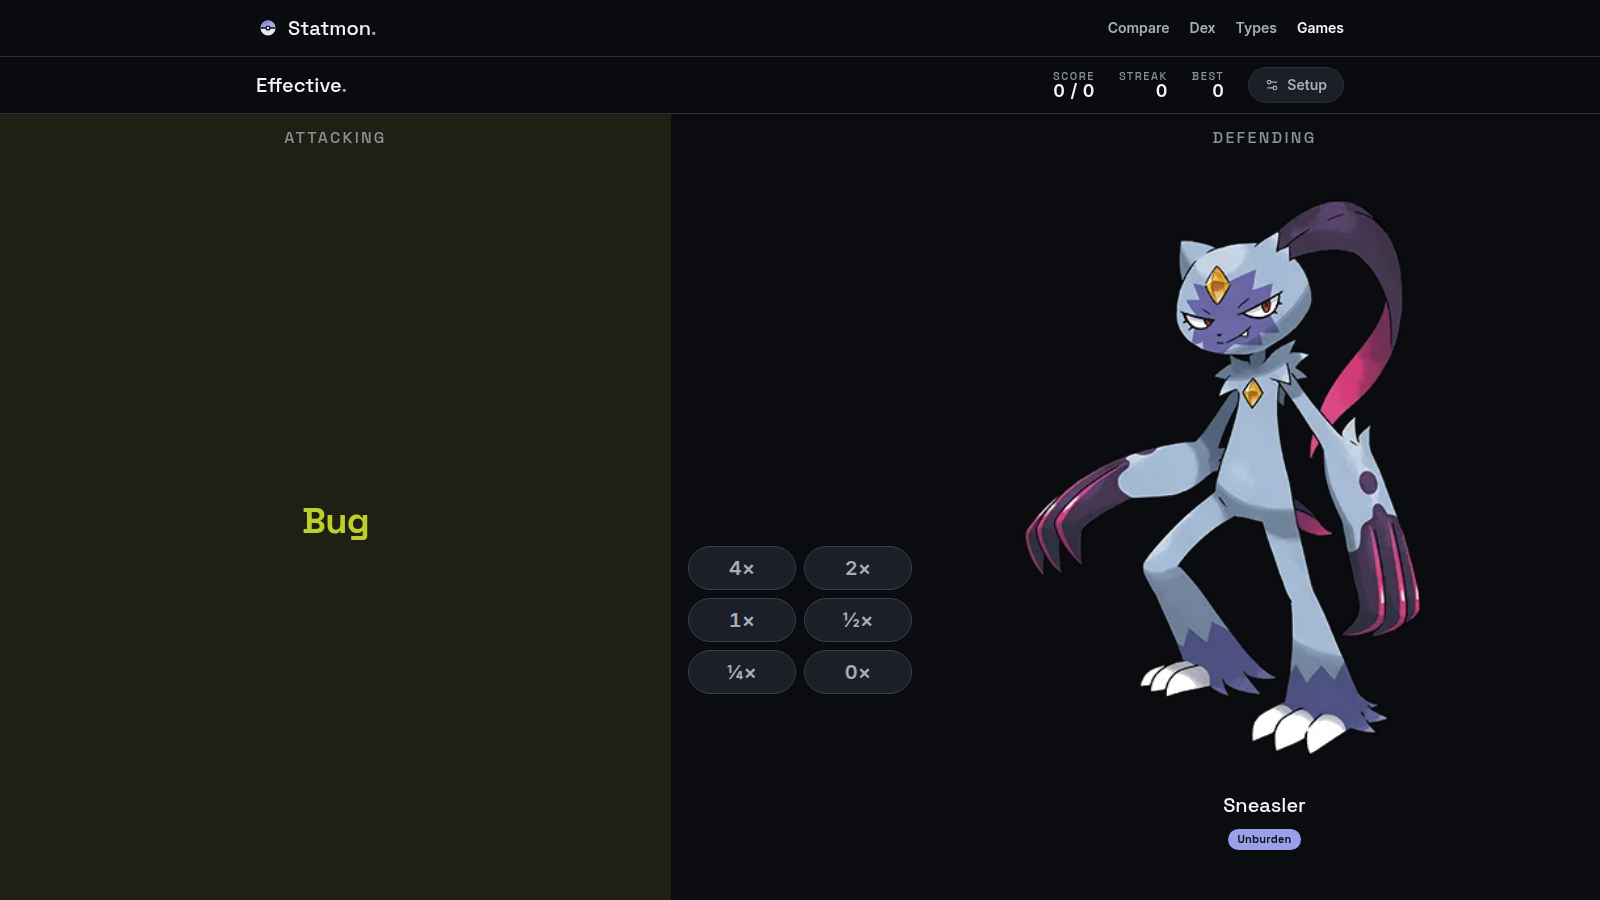
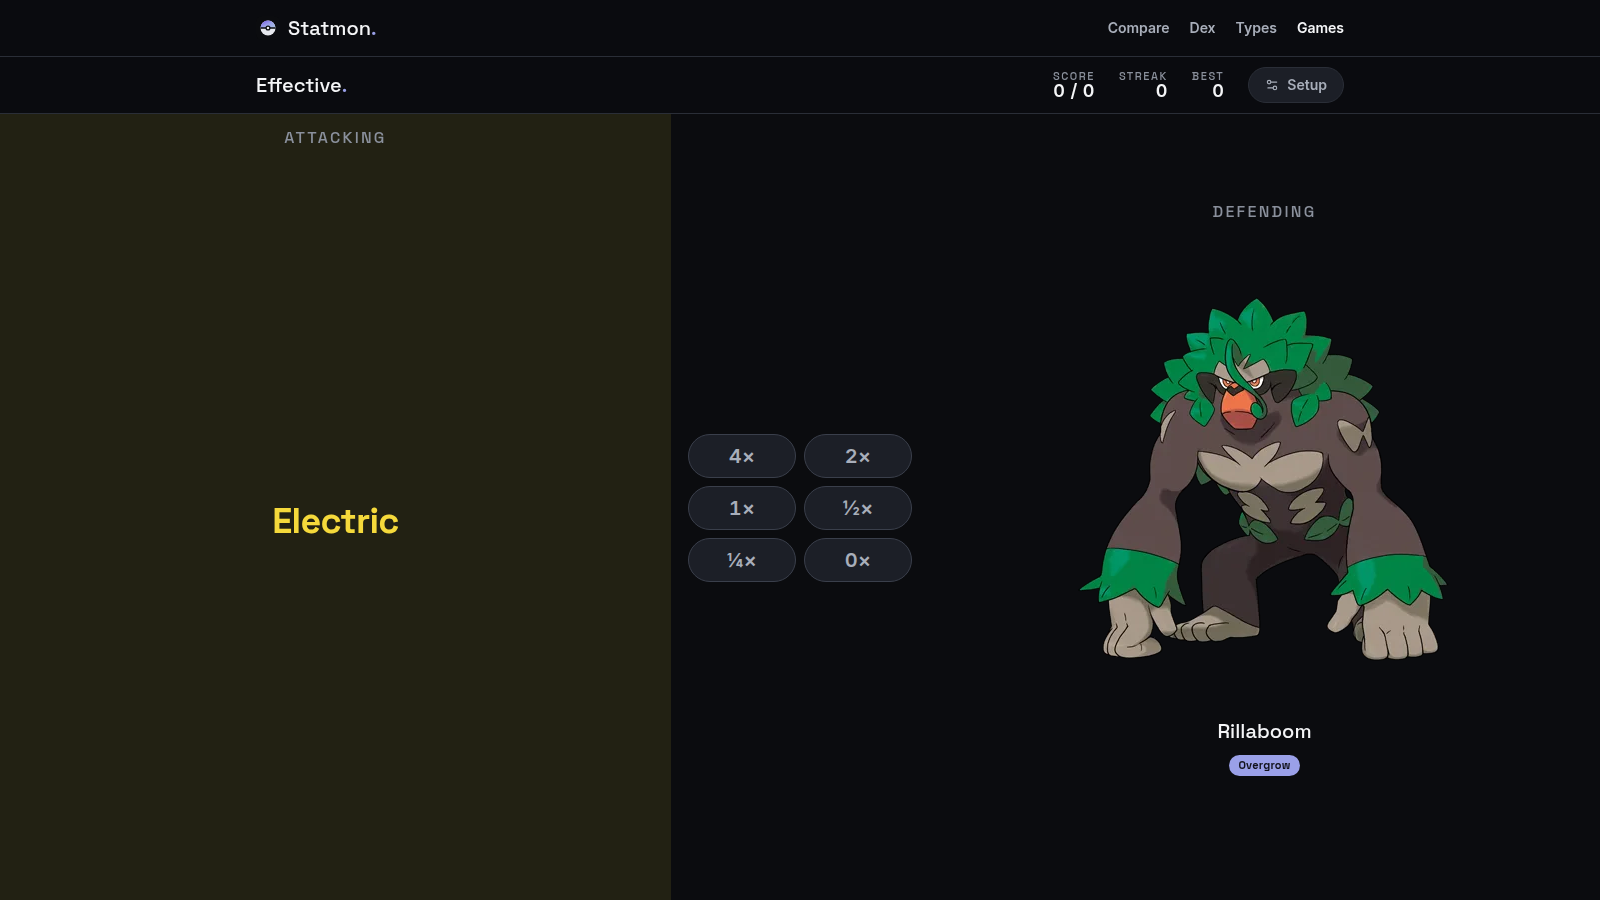
Cover the footer and the title, and re-sync the docs
The footer's absence on the boards and its presence everywhere else are both
asserted, including that Credits is still reachable from the games index —
that being the one thing the boards give up, it should stop being the agreed
trade loudly rather than quietly.

Adding those tests turned up something about the tests themselves:
routes.test.jsx builds its own copy of the route table, and that copy had no
handles — so the first assertion that depended on one was testing a footer the
real app does not render. The note above that table has warned about the
duplication since it was written; this is the first time it cost anything.

diff --git a/src/routes.test.jsx b/src/routes.test.jsx
@@ -41,8 +41,21 @@ const routes = [
       { path: "types/:t1", element: <TypeChart /> },
       { path: "types/:t1/:t2", element: <TypeChart /> },
       { path: "games", element: <Games /> },
-      { path: "games/higher", element: <GameHigher /> },
-      { path: "games/effective", element: <GameEffective /> },
+      // The `handle` matters here, not just the element: Layout reads
+      // `handle.bare` to drop the footer on a board (D-109), so a copy of the
+      // table without it renders a footer the real app does not. This is the
+      // duplication the note above warns about, caught by the first test that
+      // depended on a handle.
+      {
+        path: "games/higher",
+        element: <GameHigher />,
+        handle: { title: "Higher", bare: true },
+      },
+      {
+        path: "games/effective",
+        element: <GameEffective />,
+        handle: { title: "Effective", bare: true },
+      },
       { path: "credits", element: <Credits /> },
       { path: "style", element: <StyleGuide /> },
       { path: "*", element: <NotFound /> },
@@ -965,4 +978,50 @@ describe("the games ask how you want to play", () => {
     );
     expect(bare).toHaveLength(1);
   });
+});
+
+// The two game boards drop the footer, because they are sized to fill the
+// viewport exactly and anything beneath one makes every game page scroll by
+// that much (D-109). Everything else keeps it — including the /games index you
+// arrive through, which is where the attribution and the Credits link stay
+// reachable from.
+describe("the footer", () => {
+  const ATTRIBUTION = "unofficial fan project";
+
+  it.each(["/games/higher?stats=speed", "/games/effective?tier=hard"])(
+    "is absent on the board at %s",
+    (path) => {
+      expect(render(path)).not.toContain(ATTRIBUTION);
+    },
+  );
+
+  it.each(["/", "/games", "/compare", "/dex", "/types", "/credits"])(
+    "is present on %s",
+    (path) => {
+      expect(render(path)).toContain(ATTRIBUTION);
+    },
+  );
+
+  // The one thing the boards give up. Asserted rather than left as a comment,
+  // so that if Credits ever stops being reachable from the games index the
+  // trade stops being the one that was agreed.
+  it("still reaches Credits from the games index", () => {
+    expect(render("/games")).toContain('href="/credits"');
+  });
+});
+
+// The game's name is the way back to the difficulty picker (D-109).
+describe("the game bar's title", () => {
+  it.each(["/games/higher?stats=speed", "/games/effective?tier=hard"])(
+    "is a control on %s, named by its visible word",
+    (path) => {
+      const html = render(path);
+      // WCAG 2.5.3: the visible text has to be inside the accessible name, so
+      // the clause is appended rather than replacing it with an aria-label.
+      expect(html).toContain("choose a different game");
+      expect(text(path)).toContain(
+        path.includes("higher") ? "Higher" : "Effective",
+      );
+    },
+  );
 });

diff --git a/docs/04_design.md b/docs/04_design.md
@@ -246,7 +246,7 @@ The densities are a **prop rather than a breakpoint**, and that is forced: the n
 
 **Matchup panel** ([D-104](03_decisions.md#d-104)) — one side of a type-game round: the attacking type, or the defender. An `ATTACKING` / `DEFENDING` overline leads each, and it is not decoration — the question is directional and the panels are otherwise symmetrical. A typing is set as **coloured display text** rather than as a badge, the treatment [D-053](03_decisions.md#d-053) settled for `/types`' readout heading: an 11px pill is not something you read across a board. **In the hard tier a Pokémon defender is untinted and unbadged until you answer** — every other panel here is tinted by its primary type, and that would print the answer. The tint, the badges and the ability's effect dot all arrive with the reveal, where they are teaching rather than question.
 
-**Answer cluster** ([D-104](03_decisions.md#d-104), moved into the board by [D-107](03_decisions.md#d-107)) — the type game's answer control, in the **middle** of the board: attacker │ answers │ defender, the shape `/compare` has always used. It began as a rail along the bottom, which put the thing you press as far from the thing you read as the screen allows, across a field holding two words at the easier tiers. Three things hold their space from the start so nothing moves when a round resolves — the cell itself (208px, measured against a 187px verdict), the defender's type-badge band, and a fixed icon slot inside every button. That is the opposite call from [D-103](03_decisions.md#d-103), which refused to reserve in the stat game's gutter, and the difference is that this board had the room spare. The two games answer differently: in `Higher.` the answer _is_ the panels, so the middle is free for the question; here it is separate, and the middle is where the Pokémon you are still reading sits. The bottom is also where a thumb is. The buttons are a property of the **tier**, computed once from the settings, so their number never hints at the round. Marked on [D-093](03_decisions.md#d-093)'s no-red/green scale, and the verdict row above them **holds its height from the start** — the [D-103](03_decisions.md#d-103) rule, in the one place this board needs it.
+**Answer cluster** ([D-104](03_decisions.md#d-104), moved into the board by [D-107](03_decisions.md#d-107)) — the type game's answer control, in the **middle** of the board: attacker │ answers │ defender, the shape `/compare` has always used. It began as a rail along the bottom, which put the thing you press as far from the thing you read as the screen allows, across a field holding two words at the easier tiers. Two things hold their space so nothing moves when a round resolves — the defender's type-badge band and a fixed icon slot inside every button. **The cell itself no longer reserves anything** ([D-109](03_decisions.md#d-109)): the verdict moved onto the attacking panel, and the 208px slot that had been holding room for it was what pushed the buttons ~100px below centre. They now sit 1.5px off it. That is the opposite call from [D-103](03_decisions.md#d-103), which refused to reserve in the stat game's gutter, and the difference is that this board had the room spare. The two games answer differently: in `Higher.` the answer _is_ the panels, so the middle is free for the question; here it is separate, and the middle is where the Pokémon you are still reading sits. The bottom is also where a thumb is. The buttons are a property of the **tier**, computed once from the settings, so their number never hints at the round. Marked on [D-093](03_decisions.md#d-093)'s no-red/green scale, and the verdict row above them **holds its height from the start** — the [D-103](03_decisions.md#d-103) rule, in the one place this board needs it.
 
 **Game bar** ([D-096](03_decisions.md#d-096)) — the arena's 56px chrome, sticky under the site header at `--z-raised`: the game's name in the `Word.` motif at `text-h3`, then score / streak / best as a `<dl>` in `text-stat` (Inter with tabular figures, because these change under the reader every round — `text-numeral-*` is for big figures optically centred in a fixed band, [D-035](03_decisions.md#d-035)), then the Setup button. **The name truncates rather than pushing** ([D-106](03_decisions.md#d-106)): it was `shrink-0`, which held for exactly as long as there was one game — "Effective." is longer than "Higher." and shoved Setup 15px off a 320px screen. It exists **instead of** a `PageHeader` and a controls panel, which is the whole shape of the arena change.
 

diff --git a/docs/03_decisions.md b/docs/03_decisions.md
@@ -4,6 +4,81 @@ _A dated log of what's decided and **why**. The highest-value doc for a solo dev
 
 ---
 
+## 2026-09-07 — Session 27 (the boards settle)
+
+<a id="d-109"></a>
+
+### D-109 · The reservation was the bug — **Firm** _(corrects [D-107](#d-107), amends [D-094](#d-094), [D-096](#d-096))_
+
+Seven notes from playing it. **Three were the same fault, and it was mine.**
+
+[D-107](#d-107) reserved 208px above the answer buttons so the verdict could
+land without shifting anything. It worked, and it is why the buttons rendered
+**~100px below the centre of the screen**, why the verdict read as sitting "in
+between" rather than on the board, and why a phone wasted its best space. The
+reservation solved a problem the verdict should not have been creating.
+
+**The verdict moved onto the attacking panel** — the stat game's treatment —
+and the reservation went with it. The buttons now measure **1.5px** off the
+board's centre, and still shift **0px** when a round resolves.
+
+**Why the attacker and never the defender.** The card restates it: the
+`StabChip` inside names the attacking type, so covering that panel hides
+nothing the card does not already say. Over the defender it would hide the
+typing that was just revealed — the answer covering the answer, which is the
+[D-097](#d-097) fault this whole arena has now made three times.
+
+_And one implementation note worth keeping, because the obvious version is
+wrong: placing the card explicitly at `col-start-1 row-start-1` **disturbs
+auto-placement for its siblings**. The answers slid into column three, the
+defender dropped into a row of its own, and the board came apart. Absolutely
+positioned **inside** the attacker's cell it needs no placement at all — and it
+lands on the attacker in both layouts, left column side by side and top row
+stacked, without a breakpoint._
+
+**The footer comes off the two boards.** They are sized to fill the viewport
+exactly, so anything beneath one makes every game page scroll by the footer's
+height, every round. It is a `handle` flag read through `useMatches()` — the
+channel `handle.title` already uses — rather than a list of paths in `Layout`,
+which would be a second thing to keep in step.
+
+**The cost is stated rather than absorbed.** Credits moved into the footer at
+[D-094](#d-094), so on those two routes it is one navigation away instead of on
+screen. The attribution and the unofficial-fan-project line stay on all eight
+other routes, including the `/games` index you arrive through — and a test now
+asserts both halves, the absence on the boards and the presence everywhere
+else, including that Credits is still reachable from the index.
+
+**The type game stacks at `md`, not `sm`.** Three columns at 480px leaves each
+panel about 110px wide, which is a Pokémon you cannot see. The stat game is
+untouched: its two-up is ~240px at those widths and its four-up already stacks
+below `lg`.
+
+**The artwork caps at 475px, and the number is measured rather than chosen.**
+The vendored official art is exactly 475×475 — every file, across a 400-file
+sample — so any box larger than that is enlarging a bitmap, which is the
+softness visible on a large monitor. This **amends [D-096](#d-096)**, which
+deliberately let the stat game's panels upscale on the argument that capping
+left a band of dead space above the name. That argument holds right up to the
+point where the upscale becomes visible, and the cap only bites past it: below
+475 nothing changes at all.
+
+**The game's name goes back to the picker.** It is the one thing on that bar
+that is not about the round in progress, so it is the natural home for "start a
+different game". It clears the URL as well as the flag, so a refresh from there
+asks again rather than replaying the game you just left. It fills the bar's
+height the way the nav links do ([D-065](#d-065)), and its `sr-only` clause is
+appended rather than replacing the visible word, so the name still contains what
+you can see (WCAG 2.5.3).
+
+_One thing this session caught about the tests themselves: `routes.test.jsx`
+builds its own copy of the route table, and that copy had no `handle`s — so the
+first assertion that depended on one was testing a footer the real app does not
+render. The note above that table has warned about the duplication since it was
+written; this is the first time it cost anything._
+
+---
+
 ## 2026-09-07 — Session 26 (the board fills up, and the games ask first)
 
 <a id="d-108"></a>

diff --git a/docs/05_roadmap.md b/docs/05_roadmap.md
@@ -6,7 +6,30 @@ _The phased build plan / task checklist: what to implement, in order. Sequenced 
 
 ---
 
-## Current status (2026-09-07 — Session 26, the board fills up)
+## Current status (2026-09-07 — Session 27, the boards settle)
+
+**Done — seven notes from playing it, and three of them were one fault of
+mine.** [D-107](03_decisions.md#d-107)'s 208px reservation above the answer
+buttons was why they sat **~100px below centre**, why the verdict read as "in
+between", and why a phone wasted its best space. The verdict moved onto the
+attacking panel — the stat game's treatment — and the reservation went with it.
+Measured: the buttons are now **1.5px** off the board's centre and still shift
+**0px** when a round resolves ([D-109](03_decisions.md#d-109)).
+
+- **The footer comes off the two boards**, which are sized to fill the viewport
+  exactly. The cost — Credits is one navigation away there — is stated, and a
+  test asserts both its absence on the boards and its presence everywhere else.
+- **The artwork caps at 475px**, which is the vendored art's own resolution, so
+  the cap only bites where the upscale was visible. It amends
+  [D-096](03_decisions.md#d-096), which had let it upscale deliberately.
+- **The type game stacks at `md`**: three columns at 480px is a 110px Pokémon.
+- **The game's name returns you to the difficulty picker.**
+- And the test file's private copy of the route table had no `handle`s, so the
+  first assertion that needed one was testing a footer the app does not render.
+
+Vitest is at **410 tests**.
+
+## Session 26, the board fills up)
 
 **Done — six notes from playing it, and five were the same complaint.** The type
 game's options sat outside a board that was mostly air, so the answers moved
